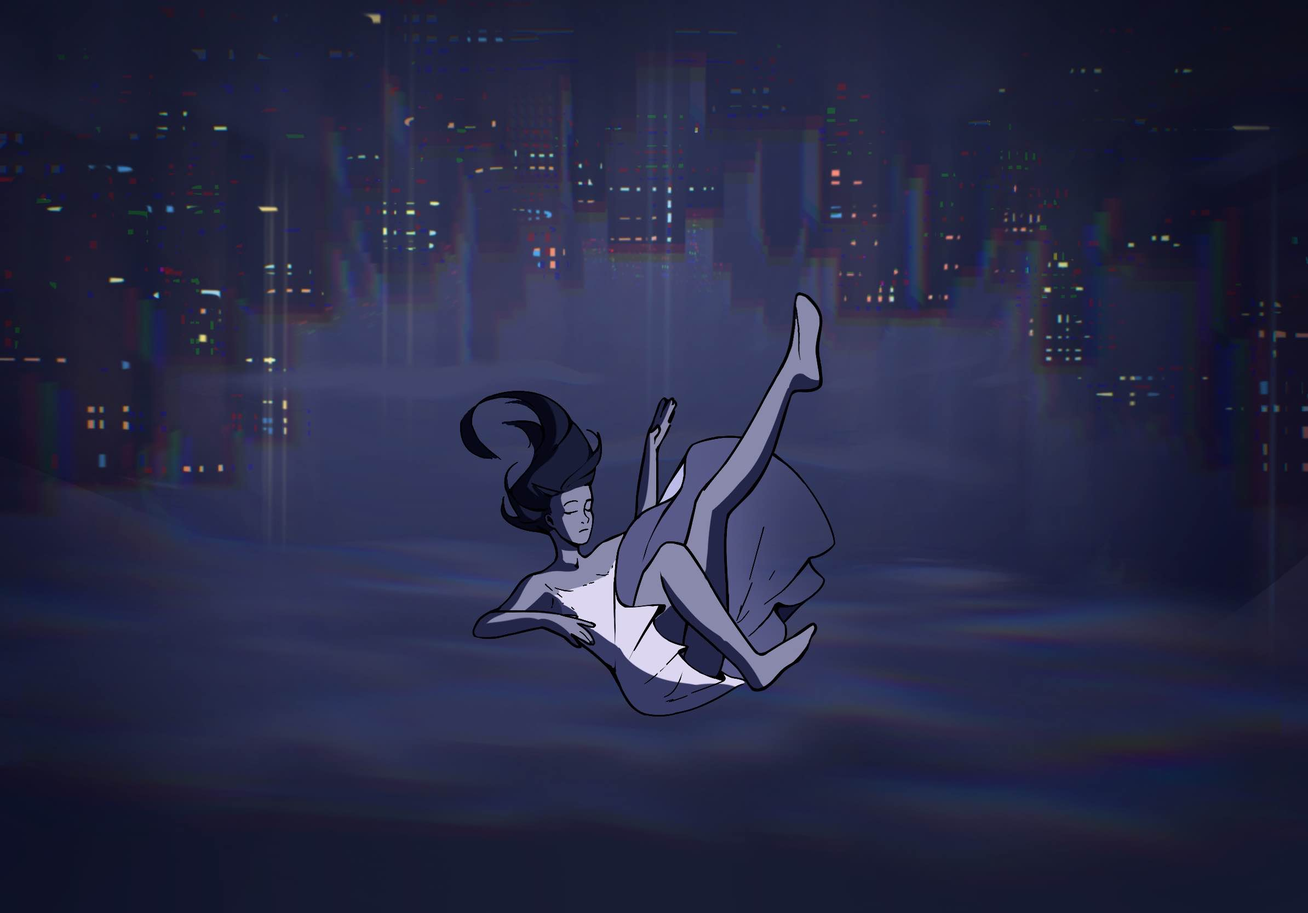
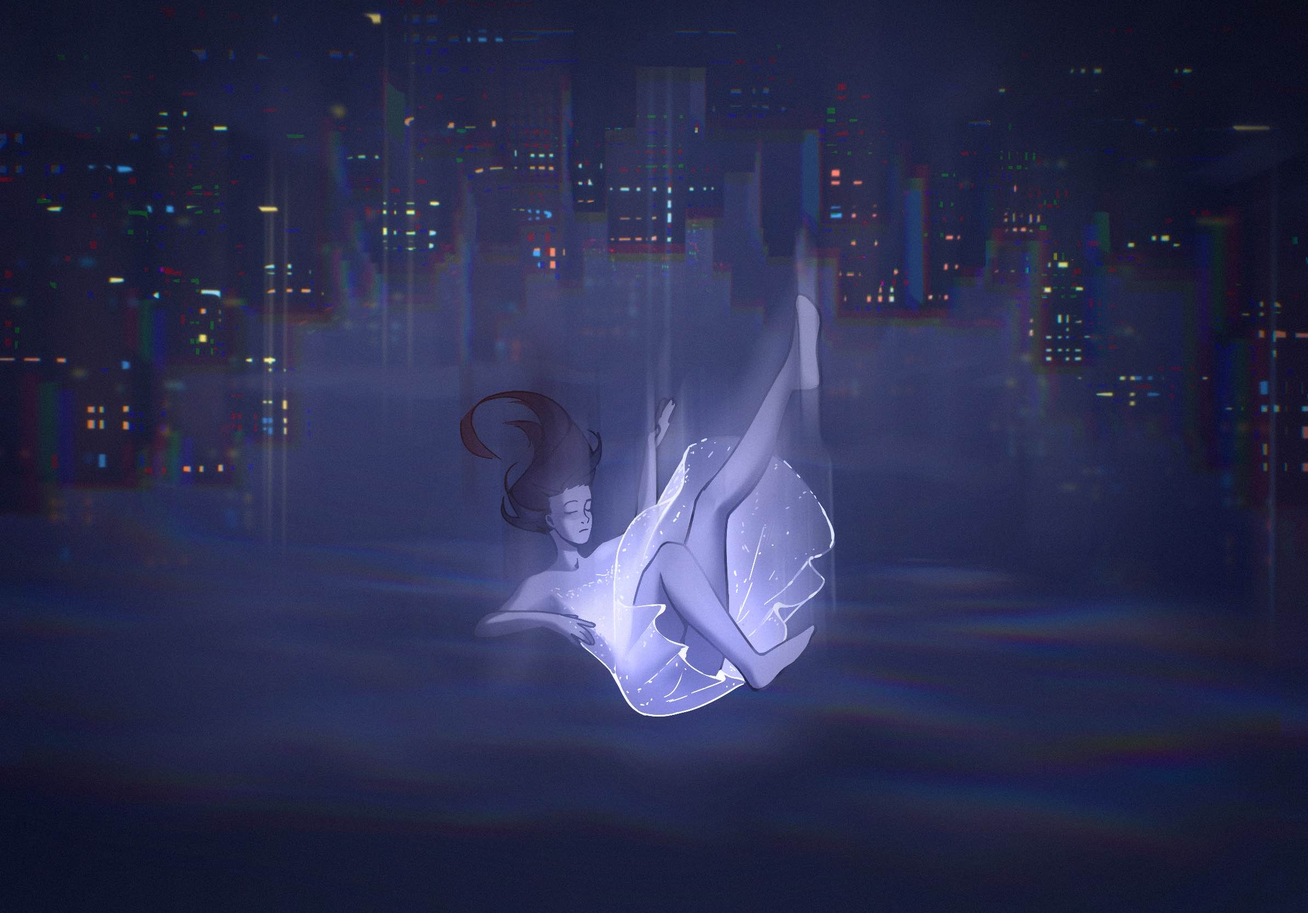
V 0.7 - Dev 4  - coding at 11pm!!!

Changed region(s): [[0.3409, 0.2806, 0.6508, 0.8106], [0.6817, 0.2806, 0.7127, 0.3118]]

diff --git a/ruitk/themes/fallen/input.js b/ruitk/themes/fallen/input.js
@@ -4,19 +4,117 @@ import { Style } from "../../support/style.js";
 
 let elements = [
     {   // text box
+        name : "",
+        function : (info, element) => {
+            info = Merge.dicts({
+                
+            }, info);
 
+            let e = element.generate(info, element);
+            
+            return e;
+        },
+        generate : "<base>",
+        style : {
+            
+        },
+        element : "input"
     }, { // radio box
-        
-    }, { // checkbox
-        
-    }, { // Dropdown
+        name : "",
+        function : (info, element) => {
+            info = Merge.dicts({
+                
+            }, info);
 
+            let e = element.generate(info, element);
+            
+            return e;
+        },
+        generate : "<base>",
+        style : {
+            
+        },
+        element : "input"
+    }, { // checkbox
+        name : "",
+        function : (info, element) => {
+            info = Merge.dicts({
+                
+            }, info);
+
+            let e = element.generate(info, element);
+            
+            return e;
+        },
+        generate : "<base>",
+        style : {
+            
+        },
+        element : "input"
+    }, { // Dropdown
+        name : "",
+        function : (info, element) => {
+            info = Merge.dicts({
+                
+            }, info);
+
+            let e = element.generate(info, element);
+            
+            return e;
+        },
+        generate : "<base>",
+        style : {
+            
+        },
+        element : "input"
     }, { // Combo Box
-        
+        name : "",
+        function : (info, element) => {
+            info = Merge.dicts({
+                
+            }, info);
+
+            let e = element.generate(info, element);
+            
+            return e;
+        },
+        generate : "<base>",
+        style : {
+            
+        },
+        element : "input"
     }, { // Button
-        
+        name : "",
+        function : (info, element) => {
+            info = Merge.dicts({
+                
+            }, info);
+
+            let e = element.generate(info, element);
+            
+            return e;
+        },
+        generate : "<base>",
+        style : {
+            
+        },
+        element : "input"
     }, { // Submit form
-        
+        name : "",
+        function : (info, element) => {
+            info = Merge.dicts({
+                
+            }, info);
+
+            let e = element.generate(info, element);
+            
+            return e;
+        },
+        generate : "<base>",
+        style : {
+            
+        },
+        element : "input"
     }
 ];
 

diff --git a/ruitk/themes/fallen/base.js b/ruitk/themes/fallen/base.js
@@ -56,7 +56,6 @@ let elements = [
                 yAline : "",
                 textAlign : "left",
                 position : "",
-                text : "",
             }, info);
         
             let e = document.createElement(element.element);
@@ -64,7 +63,6 @@ let elements = [
             
             e.style.textAlign = info.textAlign;
             
-            e.innerText = info.text;
             // Check for string content properly
             if (info.content) {
                 if(Array.isArray(info.content) === false) {
@@ -229,7 +227,16 @@ let elements = [
         element : "u"
     }, { // a
         name : "a",
-        function : "<h1>", 
+        function : (info, element) => {
+            info = Merge.dicts({
+                href : ""
+            }, info);
+
+            let p = element.generate(info, element);
+            p.href = info.href;
+
+            return p;
+        }, 
         generate : "<base>",
         style : {
             margin : "0",

diff --git a/doc/fallen/2. The Base Element.md b/doc/fallen/2. The Base Element.md
@@ -11,7 +11,6 @@ In Fallen there's a Element called `base` although if you do call it [element.js
  - `yAline` - Defaults to an empty string - Has 3 values "top", "center" & "bottom" if these values are passed in it will snap vertically to that part of the parent
  - `textAlign` - Defaults to "left" - sets `element.innertext`
  - `position` - Defaults to "relative" but if `x`, `y`, `w`, `h`, `xAline` or `yAline` are changed it will instead default to "absolute" - sets `element.style.position`
- - `text` - Defaults to an empty string - sets `element.innertext`
  
 The following elements do not accept these as input: 
 **In `tileWin.js`**:

diff --git a/doc/changelog.md b/doc/changelog.md
@@ -13,8 +13,10 @@
  - Added a function called `destoryAll` to destroy all tiles
 #### Fallen Changes
  - Fixed an issue with the `tile` element overflowing when using `updateTest`
- - Added an element to base called `u`
- - Changed wallpaper to a draft picture
+ - Added an element to base called `u` for underline
+ - Added an element to base called `a` for links
+ - Changed wallpaper to a picture done by a friend of mine
+ - Removed the `text` property from the base element
 #### tile.js Changes
  - Better error handling in the `append` function
 #### documentation Changes 
